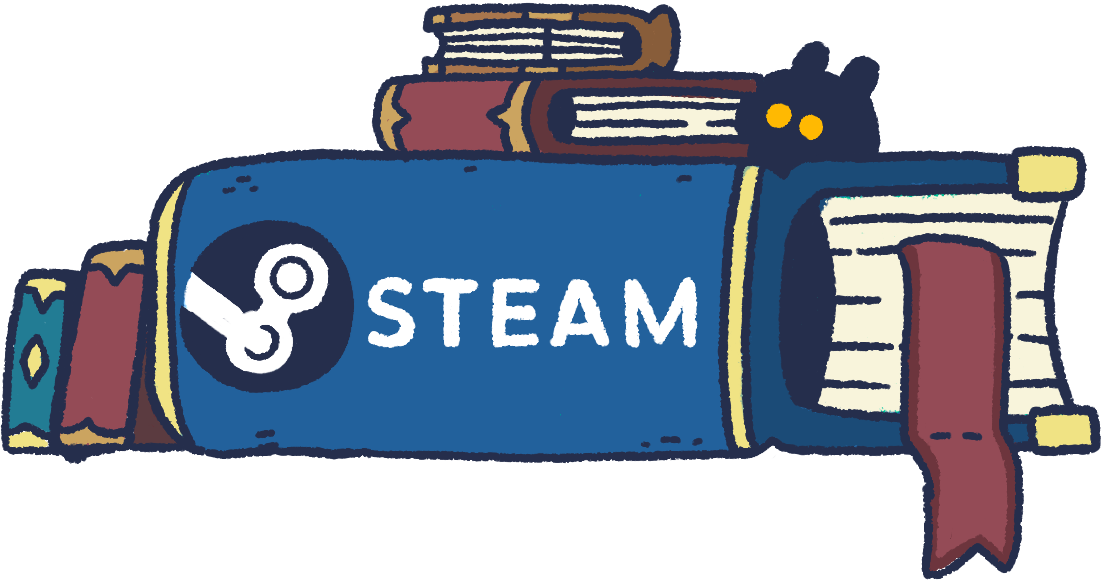
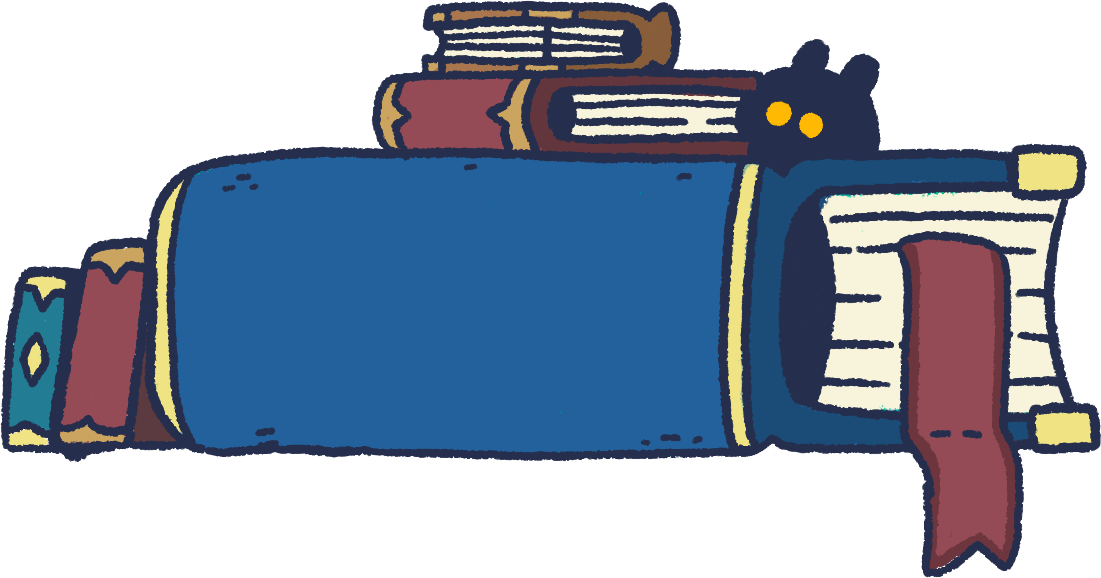
added top buttons, steam hover effect, v1 copy, and new video frame

diff --git a/docs/index.html b/docs/index.html
@@ -7,13 +7,38 @@
         <div id="hero-image">
             <div class="content-wrapper">
             <img src="resources/SpellomancerSimple.png" id="logo">
-            <a href="steam://openurl/https://store.steampowered.com/app/2933760/Spellomancer/" >
-                <img src="resources/SteamButtonBook.png" id="steam-button">
-            </a>
+                <div id="steam-button-book">
+                    <img src="resources/SteamButtonBook.png" id="steam-book">
+                    <a href="steam://openurl/https://store.steampowered.com/app/2933760/Spellomancer/">
+                        <img src="resources/SteamButtonUnpressed.png" class="steam-button unhover">
+                        <img src="resources/SteamButtonPressed.png" class="steam-button hover">
+
+                    </a>
+                </div>
         </div>
         </div>
         <div id="background-image">
-            <div class="content-wrapper" style="top: -7.5%">
+            <div class="content-wrapper" style="top: -8.5%">
+                <div id="button-container">
+                    <a href="https://bsky.app/profile/spellomancer.bsky.social" >
+                        <img src="resources/buttons/temp.png" class="round-button">
+                    </a>
+                    <a href="steam://openurl/https://store.steampowered.com/app/2933760/Spellomancer/" >
+                        <img src="resources/buttons/discord.png" class="round-button">
+                    </a>
+                    <a href="https://x.com/spellomancer" >
+                        <img src="resources/buttons/temp.png" class="round-button">
+                    </a>
+                    <a href="steam://openurl/https://store.steampowered.com/app/2933760/Spellomancer/" >
+                        <img src="resources/buttons/temp.png" class="round-button">
+                    </a>
+                    <a href="steam://openurl/https://store.steampowered.com/app/2933760/Spellomancer/" >
+                        <img src="resources/buttons/tiktok.png" class="round-button">
+                    </a>
+                    <a href="https://hiddenvariable.com" >
+                        <img src="resources/buttons/hvs.png" class="round-button">
+                    </a>
+                </div>
                 <div id="video-wrapper">
                     <div id="video-player">
                         <div id="video-padding">
@@ -23,11 +48,18 @@
                 </div>
                 <div id="description-wrapper">
                     <div id ="description">
-                        <h1>Spellomancer</h1>
-                        <p>Lorem ipsum dolor sit amet, consectetur adipiscing elit. Nam hendrerit nisi sed sollicitudin pellentesque. Nunc posuere purus rhoncus pulvinar aliquam. Ut aliquet tristique nisl vitae volutpat. Nulla aliquet porttitor venenatis. Donec a dui et dui fringilla consectetur id nec massa. Aliquam erat volutpat. Sed ut dui ut lacus dictum fermentum vel tincidunt neque. Sed sed lacinia lectus. Duis sit amet sodales felis. Duis nunc eros, mattis at dui ac, convallis semper risus. In adipiscing ultrices tellus, in suscipit massa vehicula eu.</p>
+                        <h1>WELCOME, SPELLOMANCER!
+                        </h1>
+                        <p>Spellomancer is a competitive game combining the brains of a word game with the brawn of a 2D action platformer. Each match takes place in a magical garden where you and your team attempt to harvest letters growing like crops. But beware! The opposing team is out for the best letters as well. You’ll need to fend them off with an arsenal of ridiculous weaponry and good, ol’ fashioned teamwork to get the best ones.</p>
+                        <p>Carry all the letters you can back to your base and conspire with your team to spell the longest, highest scoring words in your giant spellbook. Pull the magic lever and presto! Points earned! The team with the highest score by the end of the round wins.</p>
+                        <p>In Spellomancer, it takes both smarts and skills to emerge victorious. Do you have the magic touch?</p>
                     </div>
                 </div>
+                <img src="resources/CentralDivider.png" class="central-divider">
             </div>
+        </div>
+        <div id="footer-image">
+
         </div>
     </main>
 </body>

diff --git a/docs/styles.css b/docs/styles.css
@@ -23,6 +23,33 @@ p {
     margin-left:auto;
     margin-right:auto;
 }
+.round-button {
+    width:100%;
+    height:auto;
+}
+.central-divider {
+    width:70%;
+    margin: 7% 15%;
+}
+.steam-button {
+    position:absolute;
+    top:31.97%;
+    left: 16.34%;
+    width:48.41%;
+    height:40.66%;
+}
+.hover-container .unhover {
+    display:block;
+}
+.hover-container .hover {
+    display:none;
+}
+.hover-containe:hover .unhover {
+    display:none;
+}
+.hover-container:hover .hover {
+    display:block;
+}
 #hero-image {
     background-image: url("resources/HeaderBackground.png");
     height:calc(3443vw/4096 * 200); /*img height / width * 200*/
@@ -45,27 +72,39 @@ p {
     margin-right:5%;
     margin-top:17%;
 }
-#steam-button {
+#steam-button-book {
     width:70%;
     margin-left:15%;
     margin-right:15%;
-    margin-top:15%;
+    margin-top:13.4%;
+    position:relative;
+}
+#steam-book {
+    width:100%;
+}
+#button-container {
+    margin-left:5%;
+    width:90%;
+    display:grid;
+    grid-template-columns: repeat(6, 1fr);
+    gap:3%;
+    margin-bottom:7%;
 }
 #video-wrapper {
     position: relative;
     width: 100%;
-    padding-top: 61.8%;
+    padding-top: 68%;
     overflow: hidden;
     border-image-source: url("resources/VideoFrame.png");
-    border-image-slice: 143 148 186 153 fill;
-    border-image-width: 10% 5% 10% 5%;
+    border-image-slice: 187 151 211 156 fill;
+    border-image-width: 14.46% 7.8% 16.32% 8.15%;
     border-image-repeat: stretch;
 }
 #video-player {
     position:absolute;
-    top:9.9%;
-    left:4.9%;
-    width:90.2%;
+    top:14.4%;
+    left:8.1%;
+    width:84.1%;
 }   
 #video-padding {
     position: relative;
@@ -78,12 +117,20 @@ p {
     margin-left:5%;
     margin-top:10%;
     border-image-source: url("resources/BannerBackground.png");
-    border-image-slice: 162 259     74 241 fill;
-    border-image-width: 20% 10%;
+    border-image-slice: 165 259 150 241 fill;
+    border-image-width: 12% 10%;
     border-image-repeat: stretch;
 }
 #description {
     padding: 60px 12% 40px 12%;
+}
+#footer-image {
+    background-image: url("resources/FooterBackground.png");
+    height:calc(3443vw/4096 * 200);
+    background-position:center top;
+    background-repeat:no-repeat;
+    background-size:cover;
+    position:relative;
 }
 @media only screen and (min-width:960px)
 {
@@ -95,6 +142,9 @@ p {
     }
     #background-image{
         height:calc(10329px/4096 * 1920);
+    }
+    #footer-image {
+        height: calc(3443px/4096*1920); /*img height / width * 1920*/
     }
 }
 @media only screen and (min-aspect-ratio:16/9) {
